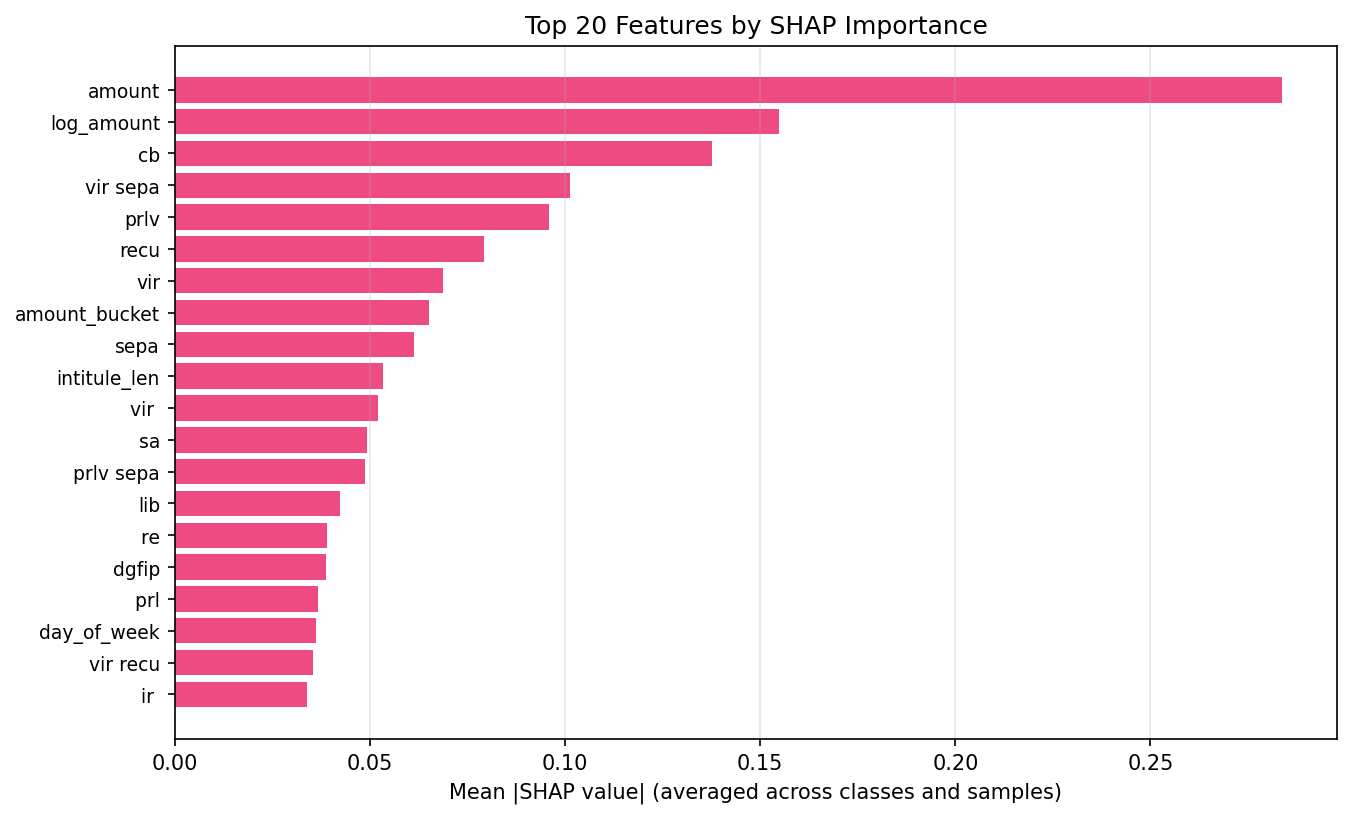
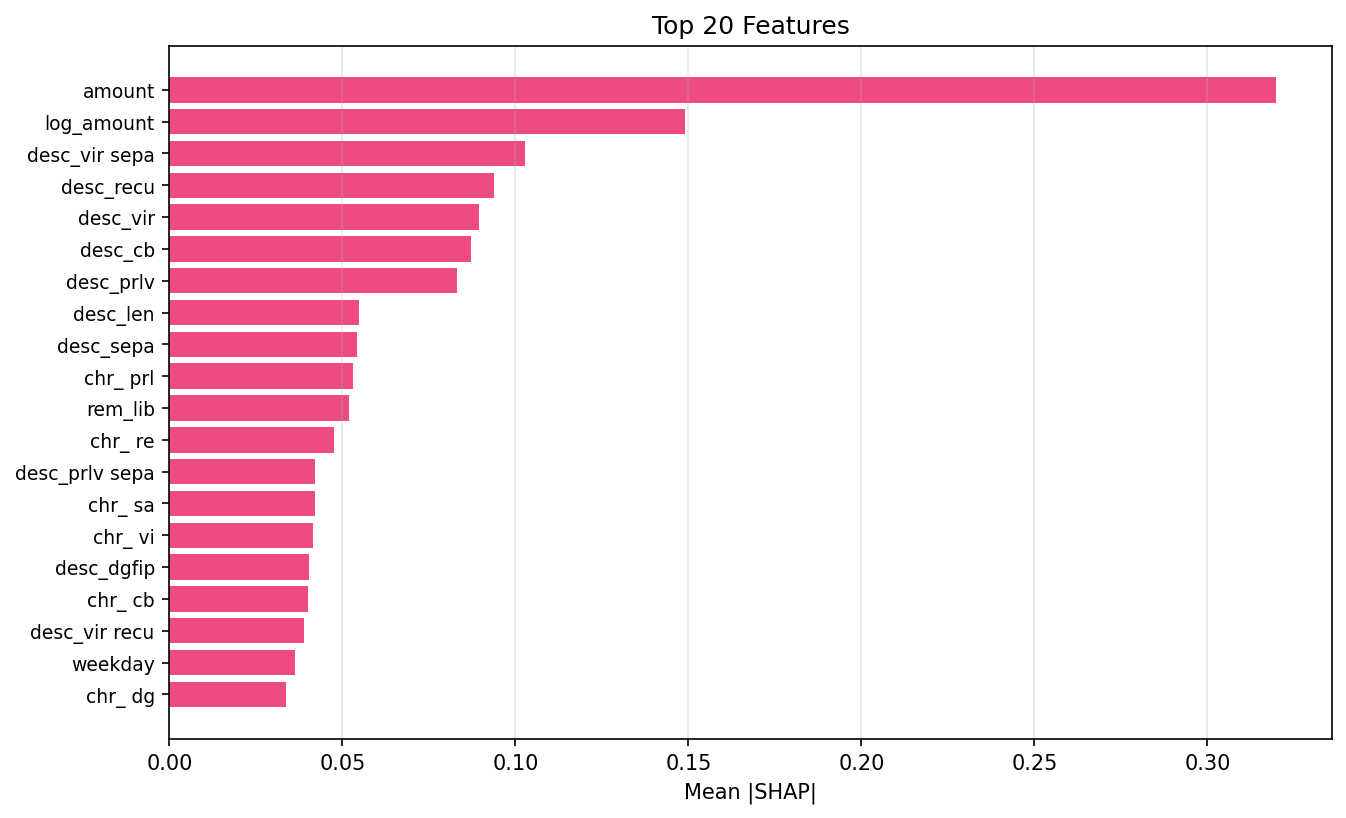
chore: add --shap flag to evaluate script and regenerate SHAP summary

diff --git a/scripts/evaluate_model.py b/scripts/evaluate_model.py
@@ -27,13 +27,29 @@ logger = logging.getLogger(__name__)
 @click.option("--model-dir", default="models", help="Path to model store")
 @click.option("--output-dir", default="reports", help="Output directory for reports")
 @click.option("--train-ratio", default=0.80, type=float, help="Temporal split ratio")
-def evaluate(data_path: str, model_dir: str, output_dir: str, train_ratio: float) -> None:
+@click.option(
+    "--shap", "run_shap", is_flag=True, help="Generate SHAP summary (requires explain extra)"
+)
+@click.option("--shap-samples", default=200, type=int, help="Max samples for SHAP computation")
+def evaluate(
+    data_path: str,
+    model_dir: str,
+    output_dir: str,
+    train_ratio: float,
+    run_shap: bool,
+    shap_samples: int,
+) -> None:
     """Evaluate the promoted model and generate report artifacts."""
+    import numpy as np
+
     from transaction_classifier.core.artifacts.store import ModelStore
     from transaction_classifier.core.data.loader import read_csv_data
     from transaction_classifier.core.data.splitter import split_by_date
     from transaction_classifier.core.features.engine import DomainFeatureEngine
-    from transaction_classifier.core.features.pipeline import assemble_feature_matrix
+    from transaction_classifier.core.features.pipeline import (
+        assemble_feature_matrix,
+        collect_feature_names,
+    )
     from transaction_classifier.evaluation.visualize import generate_all_reports
 
     logger.info("Loading model from %s", model_dir)
@@ -57,8 +73,30 @@ def evaluate(data_path: str, model_dir: str, output_dir: str, train_ratio: float
     proba = bundle.model.predict_proba(X_val)
     y_pred = proba.argmax(axis=1)
 
+    # Prepare SHAP inputs if requested
+    model_for_shap = None
+    X_dense_for_shap = None
+    feature_names_for_shap = None
+    if run_shap:
+        logger.info("Preparing SHAP data (%d samples) ...", shap_samples)
+        feature_names_for_shap = collect_feature_names(val_df, bundle.text_extractor, engine)
+        rng = np.random.default_rng(42)
+        n_val = X_val.shape[0]
+        idx = rng.choice(n_val, size=min(shap_samples, n_val), replace=False)
+        X_dense_for_shap = X_val.tocsr()[idx].toarray()
+        model_for_shap = bundle.model
+
     class_names = list(le.classes_)
-    metrics = generate_all_reports(y_true, y_pred, proba, class_names, Path(output_dir))
+    metrics = generate_all_reports(
+        y_true,
+        y_pred,
+        proba,
+        class_names,
+        Path(output_dir),
+        model=model_for_shap,
+        X_dense=X_dense_for_shap,
+        feature_names=feature_names_for_shap,
+    )
 
     logger.info("Accuracy: %.4f", metrics["accuracy"])
     logger.info("Balanced accuracy: %.4f", metrics["balanced_accuracy"])
